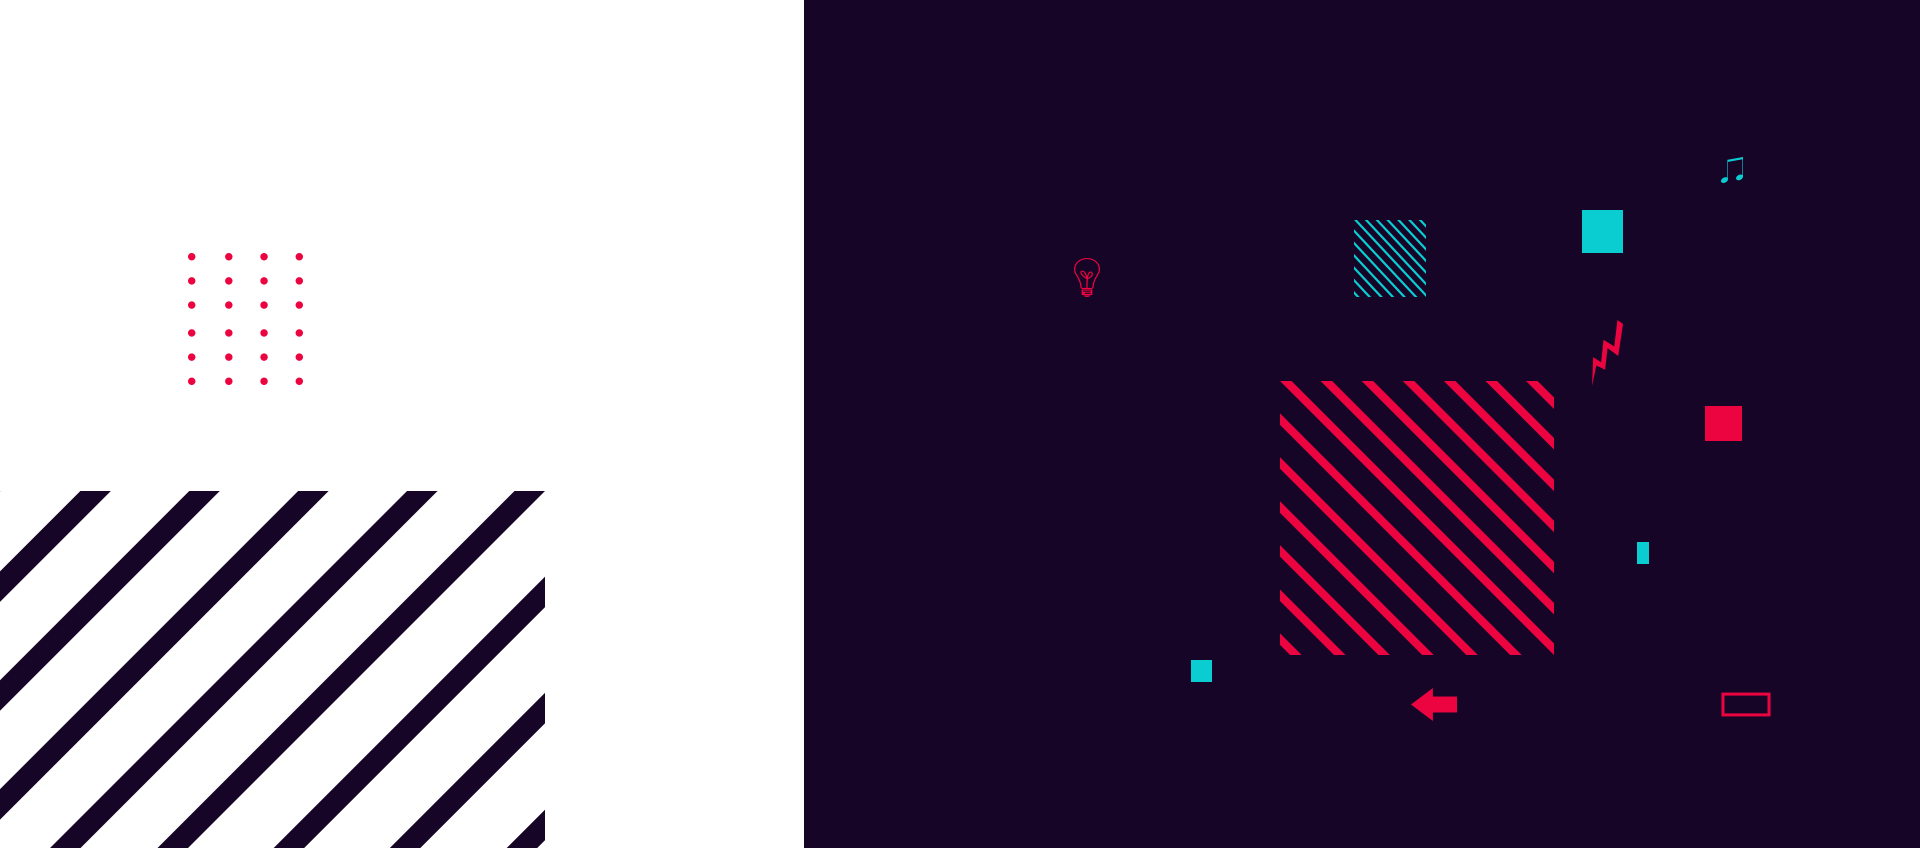
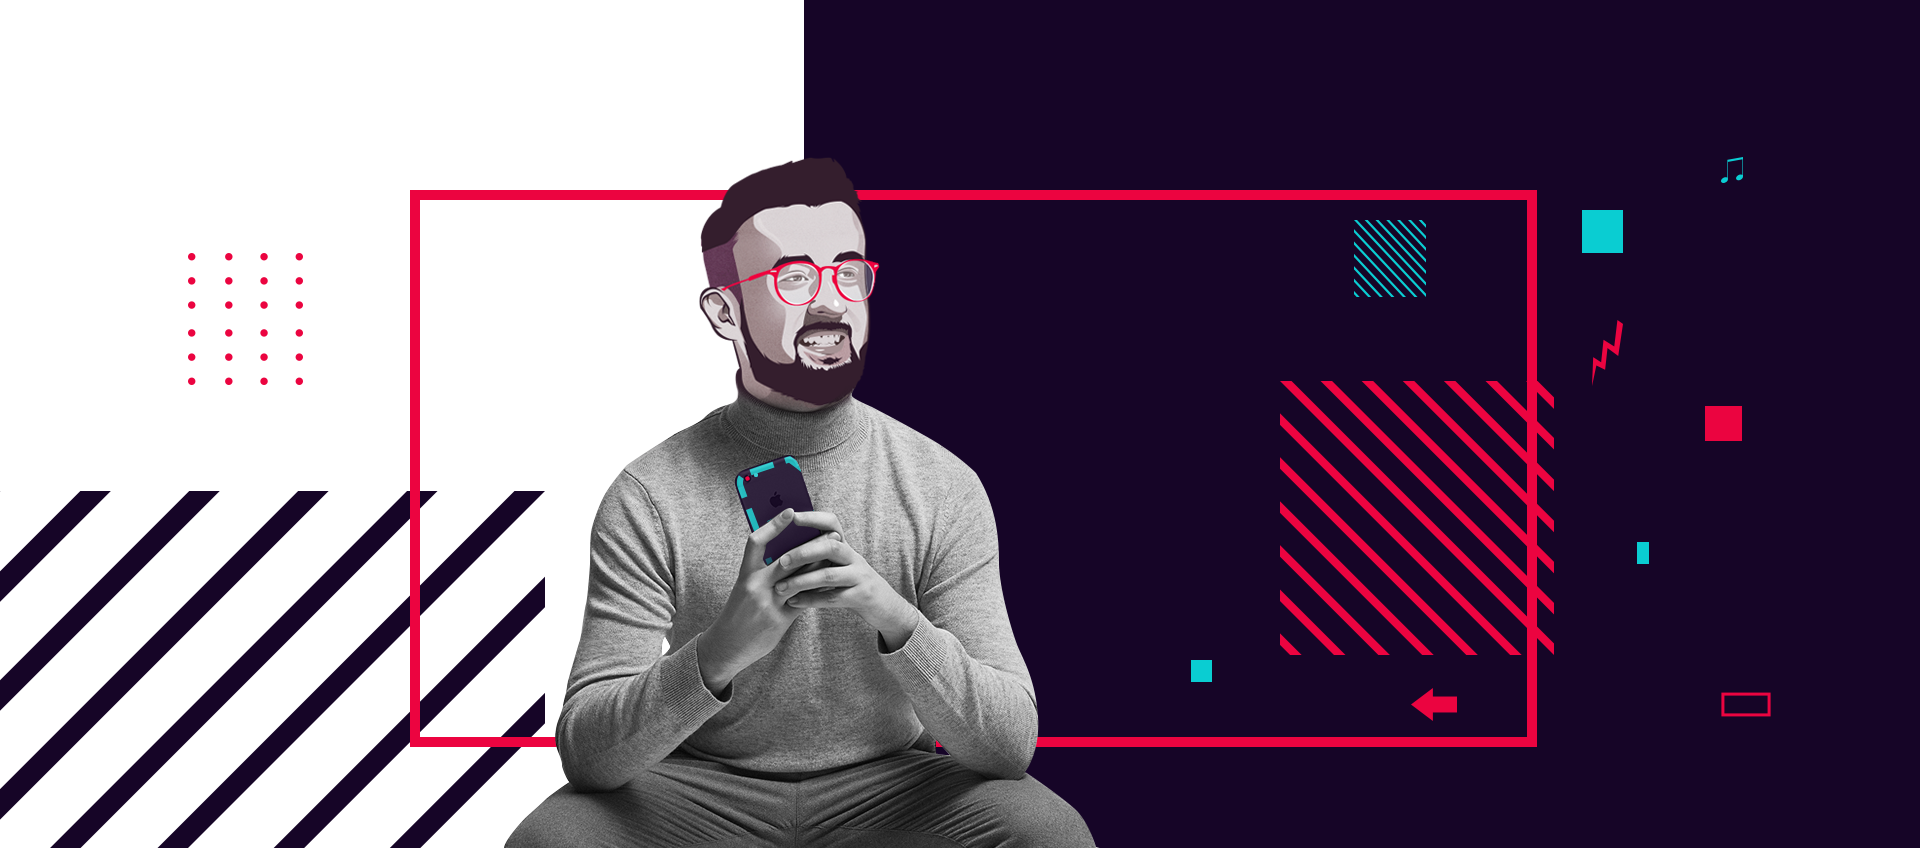
no message

Changed region(s): [[0.1875, 0.184, 0.8125, 1.0]]

diff --git a/index.html b/index.html
@@ -75,8 +75,18 @@
 	    </section>
 	    <section class="o_mnie" data-scroll-index="1">
 	    	<div class="row">
-		  		<div class="colAbout col-md"></div>
-			  	<div class="colAbout2 col-md"></div>
+		  		<div class="colAbout col-md">
+					<img src="./src/O_MNIE/ZDJĘCIE.png" class="about_photo">
+				</div>
+				
+			  	<div class="colAbout2 col-md">
+					<div class="about_text">						
+						<h2 class="section-title" style="color: black;">O mnie</h2> 
+						<p>
+						Moje motto "Programmed by Passion" towarzyszy mi w każdym realizowanym projekcie. Moim głównym celem jest realizowanie zadań programistycznych, które dostarczają jak najlepszych funkcjonalności użytkownikom końcowym. Pracując z dużymi firmami takimi jak GoldenLine, czy Idea Bank nauczyłem się w jaki sposób docierać do milionów użytkowników i ułatwiać im codzienną pracę.
+						</p>						
+					</div>
+				</div>
 	      	</div>
 	    </section>
        <!-- services -->

diff --git a/css/style.css b/css/style.css
@@ -485,5 +485,44 @@
 .direction-r .desc {
 	margin: 1em 4em 0 4em;
 }
+}
+
+.about_photo {
+	position: absolute;
+    right: 0px;
+    height: 545px;	
+	display: flex;
+	vertical-align: middle;
+	border-top-width: 10px;
+	border-top-style: solid;
+	border-left-width: 10px;
+	border-left-style: solid;
+	border-bottom-width: 10px;
+	border-bottom-style: solid;
+	padding-top: 100px;
+	padding-bottom: 100px;
+	margin-top: 100px;
+	padding-left: 100px;
+
+}
+
+.about_text {
+	position: absolute;
+    left: 0px;
+    height: 545px;	
+	display: flex;
+	vertical-align: middle;
+	border-top-width: 10px;
+	border-top-style: solid;
+	border-right-width: 10px;
+	border-right-style: solid;
+	border-bottom-width: 10px;
+	border-bottom-style: solid;
+	padding-top: 50px;
+	padding-bottom: 100px;
+	margin-top: 100px;
+	padding-right: 100px;
+	margin-right: 400px;
+	padding-left: 30px;
 
 }
